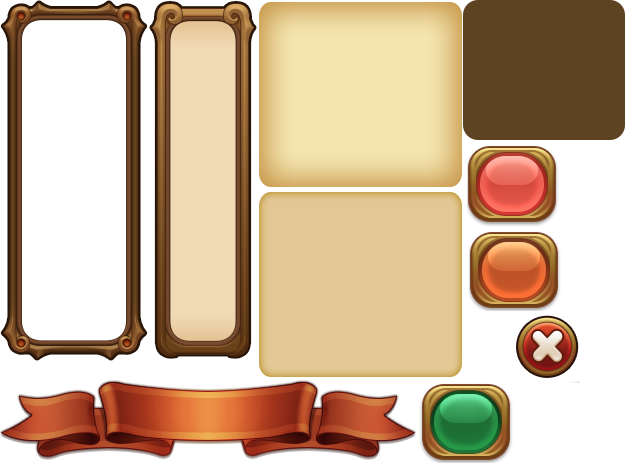
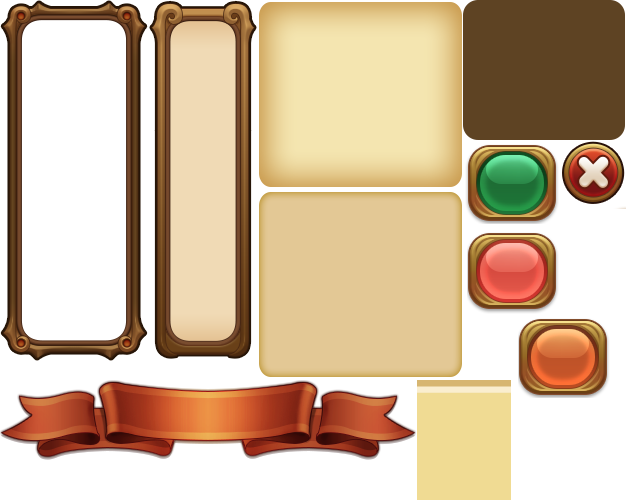
微调主界面
层级BUG待处理：多次点击背包按钮会出问题

diff --git a/bin/js/ui/layaUI.max.all.js b/bin/js/ui/layaUI.max.all.js
@@ -134,7 +134,7 @@ var ui;
                 _super.prototype.createChildren.call(this);
                 this.createView(ui.main.MainMenuViewUI.uiView);
             };
-            MainMenuViewUI.uiView = { "type": "View", "props": { "width": 750, "height": 200 }, "child": [{ "type": "Image", "props": { "y": 0, "x": 340, "skin": "main/btn_role.png" } }, { "type": "Image", "props": { "y": 0, "x": 74, "skin": "main/btn_ranking.png" } }, { "type": "Image", "props": { "y": 0, "x": 615, "skin": "main/btn_card.png" } }, { "type": "Label", "props": { "y": 120, "x": 81, "text": "排行榜", "fontSize": 25, "color": "#ffffff", "align": "center" } }, { "type": "Label", "props": { "y": 120, "x": 360, "text": "角色", "fontSize": 25, "color": "#ffffff", "align": "center" } }, { "type": "Label", "props": { "y": 120, "x": 610, "text": "音乐卡片", "fontSize": 25, "color": "#ffffff", "align": "center" } }] };
+            MainMenuViewUI.uiView = { "type": "View", "props": { "width": 750, "height": 200 }, "child": [{ "type": "Image", "props": { "y": 0, "x": 0, "width": 750, "skin": "share/bgBar.png", "sizeGrid": "28,20,34,21", "height": 200 } }, { "type": "Image", "props": { "y": 40, "x": 340, "var": "btnBag", "skin": "main/btn_role.png", "mouseEnabled": true } }, { "type": "Image", "props": { "y": 40, "x": 74, "skin": "main/btn_ranking.png" } }, { "type": "Image", "props": { "y": 40, "x": 615, "skin": "main/btn_card.png" } }, { "type": "Label", "props": { "y": 160, "x": 81, "text": "排行榜", "fontSize": 25, "color": "#ffffff", "align": "center" } }, { "type": "Label", "props": { "y": 160, "x": 360, "text": "背包", "fontSize": 25, "color": "#ffffff", "align": "center" } }, { "type": "Label", "props": { "y": 160, "x": 610, "text": "音乐卡片", "fontSize": 25, "color": "#ffffff", "align": "center" } }] };
             return MainMenuViewUI;
         }(View));
         main.MainMenuViewUI = MainMenuViewUI;
@@ -152,7 +152,7 @@ var ui;
                 _super.prototype.createChildren.call(this);
                 this.createView(ui.main.MainTopViewUI.uiView);
             };
-            MainTopViewUI.uiView = { "type": "View", "props": { "width": 750, "height": 200 }, "child": [{ "type": "Box", "props": { "y": 108, "x": 20 }, "child": [{ "type": "Image", "props": { "y": 14, "x": 30, "skin": "main/ic_bg.png" } }, { "type": "Label", "props": { "y": 21, "x": 64, "width": 45, "var": "tfDiamond", "text": "11", "height": 24, "fontSize": 24, "color": "#ffffff", "align": "center" } }, { "type": "Image", "props": { "width": 60, "skin": "main/ic_star.png" } }] }, { "type": "Box", "props": { "y": 108, "x": 362 }, "child": [{ "type": "Image", "props": { "y": 14, "x": 30, "skin": "main/ic_bg.png" } }, { "type": "Label", "props": { "y": 21, "x": 64, "width": 76, "var": "tfPower", "text": "56", "height": 24, "fontSize": 24, "color": "#ffffff", "align": "center" } }, { "type": "Image", "props": { "skin": "main/ic_power.png" } }] }, { "type": "Image", "props": { "y": 18, "x": 20, "width": 88, "var": "btnUserInfo", "skin": "main/ic_add_power.png", "height": 88 }, "child": [{ "type": "Sprite", "props": { "y": 0, "x": 0, "width": 88, "renderType": "mask", "height": 88 }, "child": [{ "type": "Circle", "props": { "y": 44, "x": 44, "radius": 44, "lineWidth": 1, "fillColor": "#d12424" } }] }] }, { "type": "Box", "props": { "y": 111, "x": 190 }, "child": [{ "type": "Image", "props": { "y": 14, "x": 30, "skin": "main/ic_bg.png" } }, { "type": "Image", "props": { "width": 60, "skin": "main/ic_coin.png", "height": 60 } }, { "type": "Label", "props": { "y": 21, "x": 64, "width": 52, "var": "tfMoney", "text": "99", "height": 24, "fontSize": 24, "color": "#ffffff", "align": "center" } }] }, { "type": "Button", "props": { "y": 121, "x": 142, "stateNum": 1, "skin": "main/btn_add.png" } }] };
+            MainTopViewUI.uiView = { "type": "View", "props": { "width": 750, "height": 200 }, "child": [{ "type": "Image", "props": { "y": 200, "x": 0, "width": 750, "skin": "share/bgBar.png", "sizeGrid": "28,20,34,21", "scaleY": -1, "height": 200 } }, { "type": "Box", "props": { "y": 108, "x": 20 }, "child": [{ "type": "Image", "props": { "y": 14, "x": 30, "skin": "main/ic_bg.png" } }, { "type": "Label", "props": { "y": 21, "x": 64, "width": 45, "var": "tfDiamond", "text": "11", "height": 24, "fontSize": 24, "color": "#ffffff", "align": "center" } }, { "type": "Image", "props": { "width": 60, "skin": "main/ic_star.png" } }] }, { "type": "Box", "props": { "y": 108, "x": 362 }, "child": [{ "type": "Image", "props": { "y": 14, "x": 30, "skin": "main/ic_bg.png" } }, { "type": "Label", "props": { "y": 21, "x": 64, "width": 76, "var": "tfPower", "text": "56", "height": 24, "fontSize": 24, "color": "#ffffff", "align": "center" } }, { "type": "Image", "props": { "skin": "main/ic_power.png" } }] }, { "type": "Image", "props": { "y": 18, "x": 20, "width": 88, "var": "btnUserInfo", "skin": "main/ic_add_power.png", "height": 88 }, "child": [{ "type": "Sprite", "props": { "y": 0, "x": 0, "width": 88, "renderType": "mask", "height": 88 }, "child": [{ "type": "Circle", "props": { "y": 44, "x": 44, "radius": 44, "lineWidth": 1, "fillColor": "#d12424" } }] }] }, { "type": "Box", "props": { "y": 111, "x": 190 }, "child": [{ "type": "Image", "props": { "y": 14, "x": 30, "skin": "main/ic_bg.png" } }, { "type": "Image", "props": { "width": 60, "skin": "main/ic_coin.png", "height": 60 } }, { "type": "Label", "props": { "y": 21, "x": 64, "width": 52, "var": "tfMoney", "text": "99", "height": 24, "fontSize": 24, "color": "#ffffff", "align": "center" } }] }, { "type": "Button", "props": { "y": 121, "x": 142, "stateNum": 1, "skin": "main/btn_add.png" } }] };
             return MainTopViewUI;
         }(View));
         main.MainTopViewUI = MainTopViewUI;

diff --git a/src/ui/layaUI.max.all.ts b/src/ui/layaUI.max.all.ts
@@ -113,8 +113,9 @@ module ui.fight {
 
 module ui.main {
     export class MainMenuViewUI extends View {
+		public btnBag:Laya.Image;
 
-        public static  uiView:any ={"type":"View","props":{"width":750,"height":200},"child":[{"type":"Image","props":{"y":0,"x":340,"skin":"main/btn_role.png"}},{"type":"Image","props":{"y":0,"x":74,"skin":"main/btn_ranking.png"}},{"type":"Image","props":{"y":0,"x":615,"skin":"main/btn_card.png"}},{"type":"Label","props":{"y":120,"x":81,"text":"排行榜","fontSize":25,"color":"#ffffff","align":"center"}},{"type":"Label","props":{"y":120,"x":360,"text":"角色","fontSize":25,"color":"#ffffff","align":"center"}},{"type":"Label","props":{"y":120,"x":610,"text":"音乐卡片","fontSize":25,"color":"#ffffff","align":"center"}}]};
+        public static  uiView:any ={"type":"View","props":{"width":750,"height":200},"child":[{"type":"Image","props":{"y":0,"x":0,"width":750,"skin":"share/bgBar.png","sizeGrid":"28,20,34,21","height":200}},{"type":"Image","props":{"y":40,"x":340,"var":"btnBag","skin":"main/btn_role.png","mouseEnabled":true}},{"type":"Image","props":{"y":40,"x":74,"skin":"main/btn_ranking.png"}},{"type":"Image","props":{"y":40,"x":615,"skin":"main/btn_card.png"}},{"type":"Label","props":{"y":160,"x":81,"text":"排行榜","fontSize":25,"color":"#ffffff","align":"center"}},{"type":"Label","props":{"y":160,"x":360,"text":"背包","fontSize":25,"color":"#ffffff","align":"center"}},{"type":"Label","props":{"y":160,"x":610,"text":"音乐卡片","fontSize":25,"color":"#ffffff","align":"center"}}]};
         constructor(){ super()}
         createChildren():void {
         
@@ -133,7 +134,7 @@ module ui.main {
 		public btnUserInfo:Laya.Image;
 		public tfMoney:Laya.Label;
 
-        public static  uiView:any ={"type":"View","props":{"width":750,"height":200},"child":[{"type":"Box","props":{"y":108,"x":20},"child":[{"type":"Image","props":{"y":14,"x":30,"skin":"main/ic_bg.png"}},{"type":"Label","props":{"y":21,"x":64,"width":45,"var":"tfDiamond","text":"11","height":24,"fontSize":24,"color":"#ffffff","align":"center"}},{"type":"Image","props":{"width":60,"skin":"main/ic_star.png"}}]},{"type":"Box","props":{"y":108,"x":362},"child":[{"type":"Image","props":{"y":14,"x":30,"skin":"main/ic_bg.png"}},{"type":"Label","props":{"y":21,"x":64,"width":76,"var":"tfPower","text":"56","height":24,"fontSize":24,"color":"#ffffff","align":"center"}},{"type":"Image","props":{"skin":"main/ic_power.png"}}]},{"type":"Image","props":{"y":18,"x":20,"width":88,"var":"btnUserInfo","skin":"main/ic_add_power.png","height":88},"child":[{"type":"Sprite","props":{"y":0,"x":0,"width":88,"renderType":"mask","height":88},"child":[{"type":"Circle","props":{"y":44,"x":44,"radius":44,"lineWidth":1,"fillColor":"#d12424"}}]}]},{"type":"Box","props":{"y":111,"x":190},"child":[{"type":"Image","props":{"y":14,"x":30,"skin":"main/ic_bg.png"}},{"type":"Image","props":{"width":60,"skin":"main/ic_coin.png","height":60}},{"type":"Label","props":{"y":21,"x":64,"width":52,"var":"tfMoney","text":"99","height":24,"fontSize":24,"color":"#ffffff","align":"center"}}]},{"type":"Button","props":{"y":121,"x":142,"stateNum":1,"skin":"main/btn_add.png"}}]};
+        public static  uiView:any ={"type":"View","props":{"width":750,"height":200},"child":[{"type":"Image","props":{"y":200,"x":0,"width":750,"skin":"share/bgBar.png","sizeGrid":"28,20,34,21","scaleY":-1,"height":200}},{"type":"Box","props":{"y":108,"x":20},"child":[{"type":"Image","props":{"y":14,"x":30,"skin":"main/ic_bg.png"}},{"type":"Label","props":{"y":21,"x":64,"width":45,"var":"tfDiamond","text":"11","height":24,"fontSize":24,"color":"#ffffff","align":"center"}},{"type":"Image","props":{"width":60,"skin":"main/ic_star.png"}}]},{"type":"Box","props":{"y":108,"x":362},"child":[{"type":"Image","props":{"y":14,"x":30,"skin":"main/ic_bg.png"}},{"type":"Label","props":{"y":21,"x":64,"width":76,"var":"tfPower","text":"56","height":24,"fontSize":24,"color":"#ffffff","align":"center"}},{"type":"Image","props":{"skin":"main/ic_power.png"}}]},{"type":"Image","props":{"y":18,"x":20,"width":88,"var":"btnUserInfo","skin":"main/ic_add_power.png","height":88},"child":[{"type":"Sprite","props":{"y":0,"x":0,"width":88,"renderType":"mask","height":88},"child":[{"type":"Circle","props":{"y":44,"x":44,"radius":44,"lineWidth":1,"fillColor":"#d12424"}}]}]},{"type":"Box","props":{"y":111,"x":190},"child":[{"type":"Image","props":{"y":14,"x":30,"skin":"main/ic_bg.png"}},{"type":"Image","props":{"width":60,"skin":"main/ic_coin.png","height":60}},{"type":"Label","props":{"y":21,"x":64,"width":52,"var":"tfMoney","text":"99","height":24,"fontSize":24,"color":"#ffffff","align":"center"}}]},{"type":"Button","props":{"y":121,"x":142,"stateNum":1,"skin":"main/btn_add.png"}}]};
         constructor(){ super()}
         createChildren():void {
         

diff --git a/bin/js/game/main/MainMenuView.js b/bin/js/game/main/MainMenuView.js
@@ -20,8 +20,21 @@ var MainMenuView = /** @class */ (function (_super) {
         _this.layer = xframe.LayerManager.LAYER_UI;
         return _this;
     }
+    MainMenuView.prototype.onClick = function (e) {
+        switch (e.target) {
+            case this._view.btnBag:
+                xframe.XFacade.instance.showModule(BagView);
+                break;
+        }
+    };
     MainMenuView.prototype.createUI = function () {
         this.addChild(this._view);
+    };
+    MainMenuView.prototype.addEventListener = function () {
+        this._view.on(Laya.Event.CLICK, this, this.onClick);
+    };
+    MainMenuView.prototype.removeEventListener = function () {
+        this._view.off(Laya.Event.CLICK, this, this.onClick);
     };
     return MainMenuView;
 }(xframe.XWindow));

diff --git a/src/game/main/MainMenuView.ts b/src/game/main/MainMenuView.ts
@@ -10,7 +10,23 @@ class MainMenuView extends xframe.XWindow{
         this.layer = xframe.LayerManager.LAYER_UI;
     }
 
+    private onClick(e:Laya.Event):void{
+        switch(e.target){
+            case this._view.btnBag:
+            xframe.XFacade.instance.showModule(BagView);
+            break;
+        }
+    }
+
     protected createUI():void{
         this.addChild(this._view);
+    }
+
+    protected addEventListener():void{
+        this._view.on(Laya.Event.CLICK, this, this.onClick);
+    }
+
+    protected removeEventListener():void{
+        this._view.off(Laya.Event.CLICK, this, this.onClick);
     }
 }

diff --git a/bin/js/xframe/frame/LayerManager.js b/bin/js/xframe/frame/LayerManager.js
@@ -33,7 +33,6 @@ var xframe;
                 if (win.layer && win.layer <= layer) {
                     //找到相应的位置，返回-
                     LayerManager._container.addChildAt(view, i + 1);
-                    xframe.trace(i + 1, "==================", view);
                     return;
                 }
             }

diff --git a/bin/js/Main.js b/bin/js/Main.js
@@ -12,6 +12,7 @@ Laya.ResourceVersion.enable("version.json", Handler.create(null, beginLoad), Lay
 function beginLoad() {
     Laya.loader.load([
         "res/atlas/common.atlas",
+        "res/atlas/share.atlas",
         "res/atlas/main.atlas",
         "res/atlas/fight.atlas",
         "cfgs/chap_0.txt",

diff --git a/bin/js/xframe/core/XWindow.js b/bin/js/xframe/core/XWindow.js
@@ -42,7 +42,6 @@ var xframe;
             }
             this.addEventListener();
             xframe.LayerManager.openWindow(this);
-            xframe.trace(this._layer, "__________________", this);
         };
         /**关闭 */
         XWindow.prototype.close = function () {

diff --git a/src/Main.ts b/src/Main.ts
@@ -16,6 +16,7 @@ Laya.ResourceVersion.enable("version.json", Handler.create(null, beginLoad), Lay
 function beginLoad(){
 	Laya.loader.load([
 		"res/atlas/common.atlas",
+		"res/atlas/share.atlas",
 		"res/atlas/main.atlas",
 		"res/atlas/fight.atlas",
 		"cfgs/chap_0.txt",
